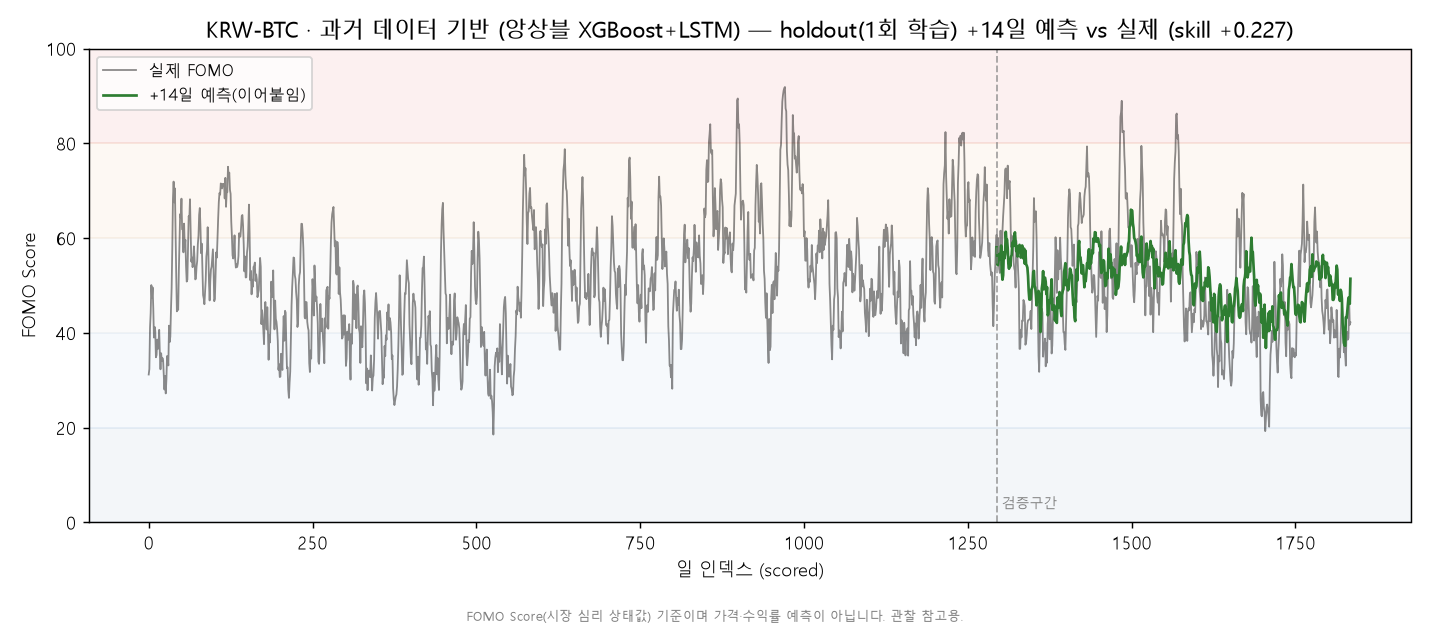
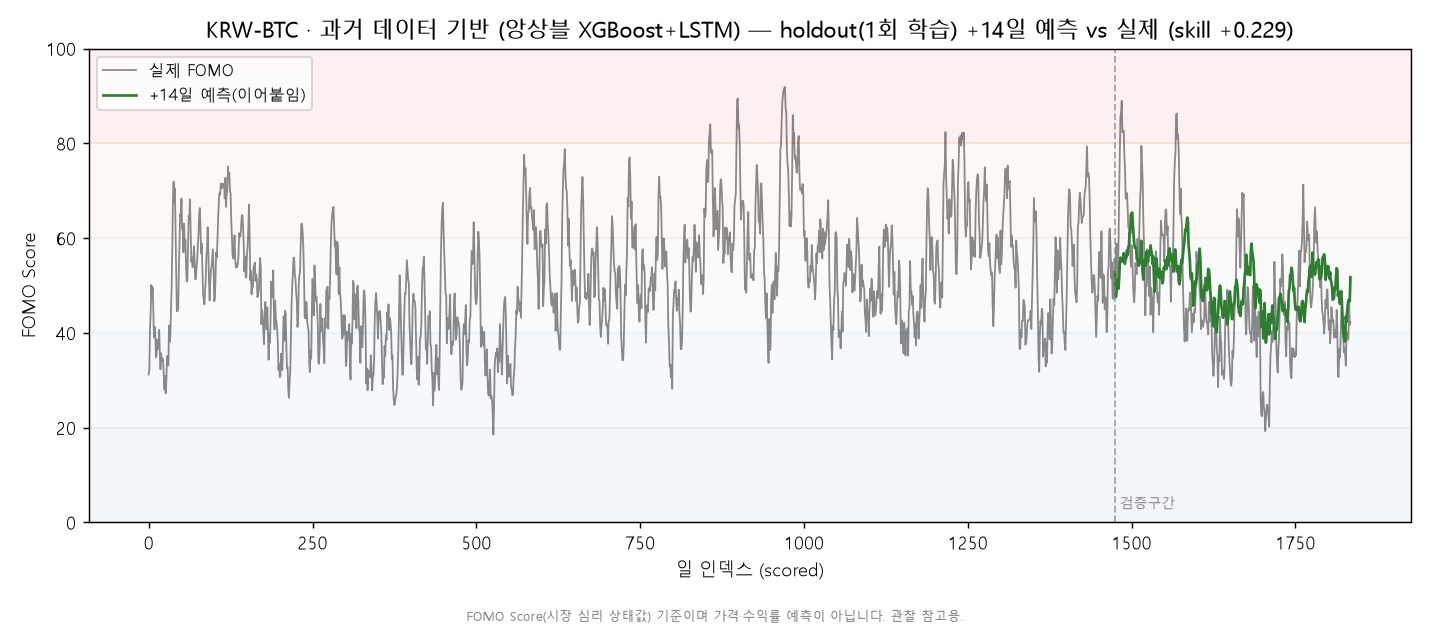
feat(viz): val set 30%→20%로 줄여 6장 재생성 (KNN 제외)
- train_ratio 0.8 (val 20%)로 holdout/expanding 재실험, 데이터 기반 6장 재작성
  · holdout/expanding 둘 다 학습 비율을 0.8로(expanding은 start_ratio)
  · KNN(과거 패턴 기반) 시나리오는 재생성 불필요 → 기존 파일 유지
- viz_final.generate()에 train_ratio·skip_knn 파라미터 + CLI --train-ratio/--skip-knn 추가
- 앙상블(XGB@14+LSTM@14) skill: holdout +0.229, expanding +0.229 (val 30%와 거의 동일)
- 대상은 가격이 아니라 FOMO Score(시장 심리 상태값) (compliance)

diff --git a/backend/app/viz_final.py b/backend/app/viz_final.py
@@ -32,6 +32,7 @@ from app.train_common import (  # noqa: E402
     DEFAULT_CSV,
     DEFAULT_MARKET,
     DEFAULT_OUT,
+    DEFAULT_TRAIN_RATIO,
     fomo_scores,
     load_candles_from_csv,
 )
@@ -143,7 +144,11 @@ def generate(
     csv_path: Path = DEFAULT_CSV,
     market: str = DEFAULT_MARKET,
     out_dir: Path = DEFAULT_OUT,
+    train_ratio: float = DEFAULT_TRAIN_RATIO,
+    skip_knn: bool = False,
 ) -> dict:
+    """train_ratio = 학습 비율(나머지가 val). holdout=train_ratio, expanding=start_ratio 동일 적용.
+    skip_knn=True면 KNN 시나리오 그래프는 재생성하지 않는다(기존 파일 유지)."""
     from app.backtest_expanding import expanding_backtest_lstm, expanding_backtest_xgb
     from app.train_lstm import train_lstm
     from app.train_xgb import evaluate_xgb_holdout
@@ -156,24 +161,25 @@ def generate(
 
     # 1. KNN 향후 시나리오 (과거 패턴 기반)
     paths["knn"] = out_dir / "knn_forecast.png"
-    _knn_forecast(candles, scores, market, paths["knn"])
+    if not skip_knn:
+        _knn_forecast(candles, scores, market, paths["knn"])
 
     # --- holdout ---
     # XGB@14: 개별 그래프 + 앙상블(14d)에서 공용 재사용
-    dxh = evaluate_xgb_holdout(candles, BEST["xgb_holdout"], train_ratio=0.7, collect=True)
+    dxh = evaluate_xgb_holdout(candles, BEST["xgb_holdout"], train_ratio=train_ratio, collect=True)
     _stitched("XGB", COLOR["XGB"], scores, {"target_index": dxh["target_index"], "pred": dxh["pred"]},
               BEST["xgb_holdout"], dxh["skill"], "holdout(1회 학습)", market,
               out_dir / "xgb_stitched_holdout.png")
     paths["xgb_hold"] = out_dir / "xgb_stitched_holdout.png"
 
-    dlh = train_lstm(scores, horizon=BEST["lstm_holdout"], train_ratio=0.7, collect=True, **LSTM_CFG)
+    dlh = train_lstm(scores, horizon=BEST["lstm_holdout"], train_ratio=train_ratio, collect=True, **LSTM_CFG)
     _stitched("LSTM", COLOR["LSTM"], scores, {"target_index": dlh["target_index"], "pred": dlh["pred"]},
               BEST["lstm_holdout"], dlh["skill"], "holdout(1회 학습)", market,
               out_dir / "lstm_stitched_holdout.png")
     paths["lstm_hold"] = out_dir / "lstm_stitched_holdout.png"
 
     # 앙상블 holdout @14 = XGB@14(재사용) + LSTM@14 단순평균
-    dle = train_lstm(scores, horizon=ENS_HORIZON, train_ratio=0.7, collect=True, **LSTM_CFG)
+    dle = train_lstm(scores, horizon=ENS_HORIZON, train_ratio=train_ratio, collect=True, **LSTM_CFG)
     st, sk = _blend(dxh["target_index"], dxh["pred"], dle["target_index"], dle["pred"], scores, ENS_HORIZON)
     _stitched("앙상블 XGBoost+LSTM", COLOR["ENS"], scores, st, ENS_HORIZON, sk, "holdout(1회 학습)",
               market, out_dir / "ensemble_stitched_holdout.png")
@@ -181,18 +187,18 @@ def generate(
 
     # --- expanding (운영 백테스트) ---
     # XGB@14: 개별 그래프 + 앙상블(14d)에서 공용 재사용
-    rxe = expanding_backtest_xgb(candles, BEST["xgb_expanding"], collect=True)
+    rxe = expanding_backtest_xgb(candles, BEST["xgb_expanding"], start_ratio=train_ratio, collect=True)
     _stitched("XGB", COLOR["XGB"], scores, rxe["stitched"], BEST["xgb_expanding"], rxe["skill"],
               "expanding(운영)", market, out_dir / "xgb_stitched_expanding.png")
     paths["xgb_exp"] = out_dir / "xgb_stitched_expanding.png"
 
-    rle = expanding_backtest_lstm(scores, BEST["lstm_expanding"], collect=True)
+    rle = expanding_backtest_lstm(scores, BEST["lstm_expanding"], start_ratio=train_ratio, collect=True)
     _stitched("LSTM", COLOR["LSTM"], scores, rle["stitched"], BEST["lstm_expanding"], rle["skill"],
               "expanding(운영)", market, out_dir / "lstm_stitched_expanding.png")
     paths["lstm_exp"] = out_dir / "lstm_stitched_expanding.png"
 
     # 앙상블 expanding @14 = XGB@14(재사용) + LSTM@14 단순평균
-    rle14 = expanding_backtest_lstm(scores, ENS_HORIZON, collect=True)["stitched"]
+    rle14 = expanding_backtest_lstm(scores, ENS_HORIZON, start_ratio=train_ratio, collect=True)["stitched"]
     st, sk = _blend(rxe["stitched"]["target_index"], rxe["stitched"]["pred"],
                     rle14["target_index"], rle14["pred"], scores, ENS_HORIZON)
     _stitched("앙상블 XGBoost+LSTM", COLOR["ENS"], scores, st, ENS_HORIZON, sk, "expanding(운영)",
@@ -216,9 +222,13 @@ def main(argv: list[str] | None = None) -> None:
     parser.add_argument("--csv", default=str(DEFAULT_CSV))
     parser.add_argument("--market", default=DEFAULT_MARKET)
     parser.add_argument("--out", default=str(DEFAULT_OUT))
+    parser.add_argument("--train-ratio", type=float, default=DEFAULT_TRAIN_RATIO,
+                        help="학습 비율(나머지가 val). 예: 0.8 → val 20%%")
+    parser.add_argument("--skip-knn", action="store_true", help="KNN 시나리오 그래프 재생성 생략")
     args = parser.parse_args(argv)
 
-    paths = generate(Path(args.csv), args.market, Path(args.out))
+    paths = generate(Path(args.csv), args.market, Path(args.out),
+                     train_ratio=args.train_ratio, skip_knn=args.skip_knn)
     for key, path in paths.items():
         print(f"{key:10s} -> {path}")
 
